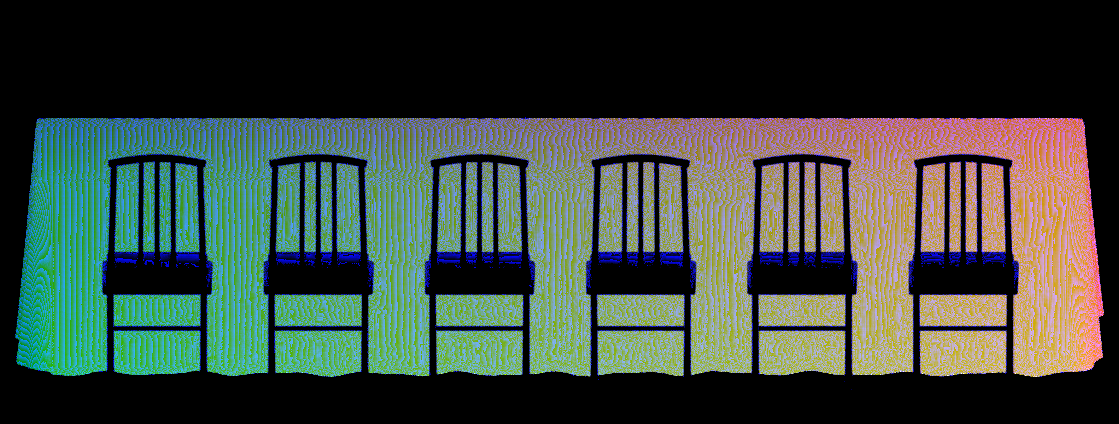
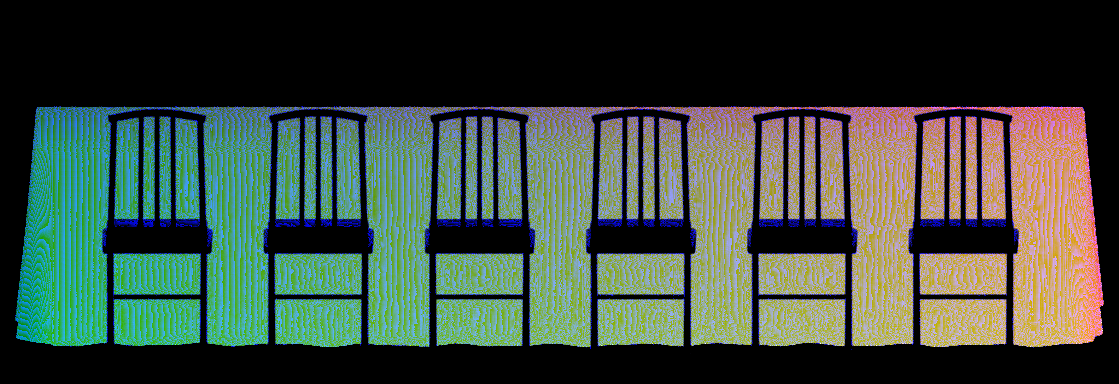
game/lab: bàn tròn ghế quay vào bàn; bàn ghế 3D vẽ chếch 10° khớp tranh; lối dọc lan can, vùng cấm gốc cây và lối vào cổng làng
- ban_tron_3d.py xoay ghế ngược nửa vòng (φ + π/2): sửa thành φ − π/2, có kiểm tra
- GOC_3D đặt độ chếch máy ảnh; bàn tròn, bàn dài, ghế 16 hướng dựng lại ở 10°
- trang thử đọc goc_nhin để đặt hoa, nến; bóng dưới bàn dẹt theo phối cảnh
- xếp bàn: lối 2,5 m dọc lan can, bãi cỏ giữa hai hàng bách sau cặp đôi để trống,
  vùng cấm gốc bách (Vườn Hồ) và lối vào cổng làng (Sân nhà quê)
- bàn cô dâu chú rể dựng 3D (ban_doi_3d.py), chưa đặt vào cảnh

Claude-Session: https://claude.ai/code/session_01EEpd3L3jMZsffKXsvJxw2h

diff --git a/game/lab/xuong/index.html b/game/lab/xuong/index.html
@@ -897,7 +897,7 @@ input[type=range]::-moz-range-thumb { width: 22px; height: 22px; border-radius: 
      Tấm vẽ tay: hai nền trống, cổng tròn, bàn dài gỗ. Đồ tự vẽ, không tốn lượt: khung cổng bằng mã (cụm hoa Canva gắn sẵn theo từng khung), nền đêm bằng mã,
      bàn tròn, bàn dài và cận cảnh một chỗ ngồi dựng 3D. Mã đặt món vào điểm neo theo thước phối cảnh của nhân vật, lật gương bàn bên trái, nhuộm qua mặt nạ,
      trải khăn nhiều lớp theo toạ độ khăn của 3D. Số đo do docs/game/ve/trang_tri.py và xuat_lab.py in ra. */
-  var SO3 = /*SO3*/{"khung-luc-giac":{"w":725,"h":645,"pxm":188.86,"ax":0.4945,"ay":0.975,"hoa_goc":[249.0,235.0,230.0]},"khung-tron":{"w":725,"h":669,"pxm":188.86,"ax":0.4945,"ay":0.9759,"hoa_goc":[249.0,235.0,230.0]},"khung-tam-giac":{"w":774,"h":620,"pxm":188.86,"ax":0.4386,"ay":0.974,"hoa_goc":[249.0,235.0,230.0]},"khung-vom":{"w":727,"h":586,"pxm":188.86,"ax":0.4285,"ay":0.9725,"hoa_goc":[249.0,235.0,230.0]},"khung-vom-nhon":{"w":708,"h":670,"pxm":188.86,"ax":0.4266,"ay":0.976,"hoa_goc":[249.0,235.0,230.0]},"khung-chu-nhat":{"w":811,"h":620,"pxm":188.86,"ax":0.4753,"ay":0.974,"hoa_goc":[249.0,235.0,230.0]},"ban-tron-6":{"w":598,"h":407,"pxm":260,"ax":0.5,"ay":0.7776,"R":0.6,"khach":6,"khan_uv_Rm":2.2667,"goc":[[255.0,255.0,255.0],[255.0,255.0,255.0],[240.0,229.0,203.0]],"mau":[239,222,[98,199,7]]},"ban-tron-10":{"w":775,"h":447,"pxm":260,"ax":0.5,"ay":0.7525,"R":0.9,"khach":10,"khan_uv_Rm":1.8444,"goc":[[255.0,255.0,252.0],[255.0,255.0,255.0],[237.0,226.0,199.0]],"mau":[336,227,[111,200,242]]},"ban-tron-12":{"w":829,"h":461,"pxm":260,"ax":0.5,"ay":0.7452,"R":1.0,"khach":12,"khan_uv_Rm":1.76,"goc":[[255.0,252.0,240.0],[255.0,255.0,255.0],[239.5,228.0,202.0]],"mau":[181,233,[48,166,167]]},"ban-dai-8":{"w":795,"h":424,"pxm":260,"ax":0.4988,"ay":0.8023,"dai":2.78,"rong":0.9,"khach":8,"xoay_do":0,"khan_uv_cao":2.25,"goc":[[255.0,255.0,255.0],[255.0,255.0,255.0],[248.0,238.0,211.0]],"mau":[607,238,[174,167,3]]},"ban-dai-12":{"w":1119,"h":424,"pxm":260,"ax":0.5006,"ay":0.8023,"dai":4.02,"rong":0.9,"khach":12,"xoay_do":0,"khan_uv_cao":2.87,"goc":[[255.0,255.0,255.0],[255.0,255.0,255.0],[248.0,238.0,211.0]],"mau":[609,237,[136,158,80]]},"ban-dai-20":{"w":1764,"h":424,"pxm":260,"ax":0.5001,"ay":0.8023,"dai":6.5,"rong":0.9,"khach":20,"xoay_do":0,"khan_uv_cao":4.11,"goc":[[255.0,255.0,255.0],[255.0,255.0,255.0],[248.0,238.0,211.0]],"mau":[798,236,[111,139,179]]},"ban-dai-12-cheo":{"w":1122,"h":518,"pxm":260,"ax":0.5005,"ay":0.7473,"dai":4.02,"rong":0.9,"khach":12,"xoay_do":-28,"khan_uv_cao":2.87,"goc":[[255.0,255.0,255.0],[255.0,255.0,255.0],[250.0,239.0,212.0]],"mau":[521,281,[130,156,170]]},"can-canh-au":{"Rm":1.8444,"R":0.9,"w":1280,"h":860,"goc":[[252.0,250.0,240.0],[170.0,154.0,110.0],[177.0,166.0,128.0]],"mau":[1137,516,[148,182,211]]},"can-canh-viet":{"Rm":1.8444,"R":0.9,"w":1280,"h":860,"goc":[[251.0,250.0,240.0],[170.0,154.0,108.0],[196.0,183.0,142.0]],"mau":[1220,411,[153,175,235]]},"vai":{"ren":{"met":0.5,"n":512},"kimsa":{"met":0.504,"n":512},"gam":{"met":0.44,"n":512}},"loa-keo":{"w":146,"h":310,"pxm":260,"ax":0.5,"ay":0.9627},"loa-chan":{"w":284,"h":577,"pxm":260,"ax":0.5,"ay":0.9406},"loa-sub":{"w":177,"h":566,"pxm":260,"ax":0.5,"ay":0.9368},"ghe":{"w":2662,"h":311,"pxm":260,"o":[[0,126,303,0.5043,0.9314],[128,162,310,0.5073,0.9201],[292,182,311,0.5274,0.916],[476,176,307,0.5454,0.9192],[654,147,296,0.567,0.9297],[803,177,295,0.5442,0.9097],[982,182,290,0.5252,0.8981],[1166,163,282,0.5042,0.8965],[1331,126,272,0.4957,0.9061],[1459,162,282,0.4927,0.8965],[1623,182,290,0.4726,0.8981],[1807,176,295,0.4546,0.9097],[1985,147,296,0.433,0.9297],[2134,177,307,0.4558,0.9192],[2313,182,311,0.4748,0.916],[2497,163,310,0.4958,0.9201]],"goc":[null,[255.0,255.0,255.0],[241.0,231.0,204.0]]},"ban-xuyen-giua":{"w":601,"h":250,"khach":18,"dai":5.88,"rong":0.9,"khan_uv_cao":3.8,"ban":[[0.0,10.02,16.02]],"d0":17.62,"ox":619,"oy":639,"goc":[[255.0,255.0,255.0],[255.0,255.0,248.0],[187.0,172.0,149.0]],"mau":[127,152,[59,116,35]]},"ban-xuyen-doc":{"w":1510,"h":337,"khach":40,"dai":12.7,"rong":0.9,"khan_uv_cao":7.21,"ban":[[-3.6,11.120000000000001,24.12],[3.6,11.120000000000001,24.12]],"d0":17.62,"ox":90,"oy":552,"goc":[[255.0,255.0,255.0],[255.0,255.0,249.0],[175.0,160.0,138.0]],"mau":[119,208,[26,120,77]]},"luong":{"w":1812,"h":229,"o":[[0,300,216,0.5,0.86],[302,300,214,0.5,0.86],[604,300,214,0.5,0.86],[906,300,229,0.5,0.86],[1208,300,221,0.5,0.86],[1510,300,222,0.5,0.86]],"rong":0.65,"goc":[252.0,249.0,244.0]},"hoaban":{"w":2304,"h":459,"o":[[0,487,311,0.5,0.961,0.6],[489,384,459,0.5,0.978,0.55],[875,334,361,0.5,0.97,0.4],[1211,491,294,0.5,0.966,0.6],[1704,379,355,0.5,0.966,0.48],[2085,217,459,0.5,0.989,0.34]],"goc":[251.0,244.0,232.0]}}/*HET*/;
+  var SO3 = /*SO3*/{"khung-luc-giac":{"w":725,"h":645,"pxm":188.86,"ax":0.4945,"ay":0.975,"hoa_goc":[249.0,235.0,230.0]},"khung-tron":{"w":725,"h":669,"pxm":188.86,"ax":0.4945,"ay":0.9759,"hoa_goc":[249.0,235.0,230.0]},"khung-tam-giac":{"w":774,"h":620,"pxm":188.86,"ax":0.4386,"ay":0.974,"hoa_goc":[249.0,235.0,230.0]},"khung-vom":{"w":727,"h":586,"pxm":188.86,"ax":0.4285,"ay":0.9725,"hoa_goc":[249.0,235.0,230.0]},"khung-vom-nhon":{"w":708,"h":670,"pxm":188.86,"ax":0.4266,"ay":0.976,"hoa_goc":[249.0,235.0,230.0]},"khung-chu-nhat":{"w":811,"h":620,"pxm":188.86,"ax":0.4753,"ay":0.974,"hoa_goc":[249.0,235.0,230.0]},"ban-tron-6":{"w":625,"h":399,"pxm":260,"ax":0.5,"ay":0.8269,"goc_nhin":10.0,"R":0.6,"khach":6,"khan_uv_Rm":2.2667,"goc":[[255.0,255.0,255.0],[255.0,255.0,255.0],[239.0,228.0,202.0]],"mau":[299,229,[134,219,83]]},"ban-tron-10":{"w":808,"h":426,"pxm":260,"ax":0.5,"ay":0.8061,"goc_nhin":10.0,"R":0.9,"khach":10,"khan_uv_Rm":1.8444,"goc":[[255.0,255.0,255.0],[255.0,255.0,255.0],[235.0,224.0,198.0]],"mau":[207,234,[53,176,248]]},"ban-tron-12":{"w":868,"h":435,"pxm":260,"ax":0.5,"ay":0.7997,"goc_nhin":10.0,"R":1.0,"khach":12,"khan_uv_Rm":1.76,"goc":[[255.0,255.0,255.0],[255.0,255.0,255.0],[238.0,227.0,200.0]],"mau":[200,237,[45,169,222]]},"ban-dai-8":{"w":795,"h":384,"pxm":260,"ax":0.4988,"ay":0.84,"goc_nhin":10.0,"dai":2.78,"rong":0.9,"khach":8,"xoay_do":0,"khan_uv_cao":2.25,"goc":[[255.0,255.0,255.0],[255.0,255.0,255.0],[248.0,238.0,211.0]],"mau":[95,231,[61,171,211]]},"ban-dai-12":{"w":1119,"h":384,"pxm":260,"ax":0.5006,"ay":0.84,"goc_nhin":10.0,"dai":4.02,"rong":0.9,"khach":12,"xoay_do":0,"khan_uv_cao":2.87,"goc":[[255.0,255.0,255.0],[255.0,255.0,255.0],[248.0,238.0,211.0]],"mau":[68,230,[43,162,162]]},"ban-dai-20":{"w":1764,"h":384,"pxm":260,"ax":0.5001,"ay":0.84,"goc_nhin":10.0,"dai":6.5,"rong":0.9,"khach":20,"xoay_do":0,"khan_uv_cao":4.11,"goc":[[255.0,255.0,255.0],[255.0,255.0,255.0],[248.0,237.0,211.0]],"mau":[385,229,[68,151,94]]},"ban-dai-12-cheo":{"w":1122,"h":447,"pxm":260,"ax":0.5005,"ay":0.7918,"goc_nhin":10.0,"dai":4.02,"rong":0.9,"khach":12,"xoay_do":-28,"khan_uv_cao":2.87,"goc":[[255.0,255.0,255.0],[255.0,255.0,255.0],[251.0,240.0,213.0]],"mau":[1035,253,[225,124,187]]},"can-canh-au":{"Rm":1.8444,"R":0.9,"w":1280,"h":860,"goc":[[252.0,250.0,240.0],[170.0,154.0,110.0],[177.0,166.0,128.0]],"mau":[1137,516,[148,182,211]]},"can-canh-viet":{"Rm":1.8444,"R":0.9,"w":1280,"h":860,"goc":[[251.0,250.0,240.0],[170.0,154.0,108.0],[196.0,183.0,142.0]],"mau":[1220,411,[153,175,235]]},"vai":{"ren":{"met":0.5,"n":512},"kimsa":{"met":0.504,"n":512},"gam":{"met":0.44,"n":512}},"loa-keo":{"w":146,"h":310,"pxm":260,"ax":0.5,"ay":0.9627,"goc_nhin":15},"loa-chan":{"w":284,"h":577,"pxm":260,"ax":0.5,"ay":0.9406,"goc_nhin":15},"loa-sub":{"w":177,"h":566,"pxm":260,"ax":0.5,"ay":0.9368,"goc_nhin":15},"ghe":{"w":2662,"h":303,"pxm":260,"o":[[0,126,297,0.5043,0.9444],[128,162,302,0.5073,0.9365],[292,182,303,0.5274,0.9336],[476,176,300,0.5454,0.936],[654,147,293,0.567,0.9434],[803,177,292,0.5442,0.9299],[982,182,288,0.5252,0.9223],[1166,163,283,0.5042,0.9217],[1331,126,277,0.4957,0.9286],[1459,162,283,0.4927,0.9217],[1623,182,288,0.4726,0.9223],[1807,176,292,0.4546,0.9299],[1985,147,293,0.433,0.9434],[2134,177,300,0.4558,0.936],[2313,182,303,0.4748,0.9336],[2497,163,302,0.4958,0.9365]],"goc":[null,[255.0,255.0,255.0],[242.0,232.0,205.0]]},"ban-xuyen-giua":{"w":601,"h":250,"khach":18,"dai":5.88,"rong":0.9,"khan_uv_cao":3.8,"ban":[[0.0,10.02,16.02]],"d0":17.62,"ox":619,"oy":639,"goc":[[255.0,255.0,255.0],[255.0,255.0,248.0],[187.0,172.0,149.0]],"mau":[127,152,[59,116,35]]},"ban-xuyen-doc":{"w":1510,"h":337,"khach":40,"dai":12.7,"rong":0.9,"khan_uv_cao":7.21,"ban":[[-3.6,11.120000000000001,24.12],[3.6,11.120000000000001,24.12]],"d0":17.62,"ox":90,"oy":552,"goc":[[255.0,255.0,255.0],[255.0,255.0,249.0],[175.0,160.0,138.0]],"mau":[119,208,[26,120,77]]},"luong":{"w":1812,"h":229,"o":[[0,300,216,0.5,0.86],[302,300,214,0.5,0.86],[604,300,214,0.5,0.86],[906,300,229,0.5,0.86],[1208,300,221,0.5,0.86],[1510,300,222,0.5,0.86]],"rong":0.65,"goc":[252.0,249.0,244.0]},"hoaban":{"w":2304,"h":459,"o":[[0,487,311,0.5,0.961,0.6],[489,384,459,0.5,0.978,0.55],[875,334,361,0.5,0.97,0.4],[1211,491,294,0.5,0.966,0.6],[1704,379,355,0.5,0.966,0.48],[2085,217,459,0.5,0.989,0.34]],"goc":[251.0,244.0,232.0]},"ban-doi":{"w":489,"h":265,"pxm":260,"ax":0.5024,"ay":0.8672,"goc_nhin":10.0,"dai":1.6,"rong":0.7,"khach":2,"xoay_do":0,"khan_uv_cao":1.66,"goc":[[255.0,255.0,255.0],null,null],"mau":[170,136,[105,180,204]]}}/*HET*/;
   var TT = {
     'cong-tron': { ten: 'Cổng tròn vẽ tay', loai: 've', f: 'anh/tt/cong-tron.webp', mn: 'anh/tt/cong-tron-mn.webp', the: 'anh/tt/t-cong-tron.webp', w: 760, h: 676, pxm: 180.17, ax: 0.5571, ay: 0.9088, goc: [250, 246, 232] },
     'ban-dai': { ten: 'Dài gỗ vẽ tay', loai: 've', f: 'anh/tt/ban-dai.webp', mn: 'anh/tt/ban-dai-mn.webp', the: 'anh/tt/t-ban-dai.webp', w: 898, h: 447, pxm: 292.89, ax: 0.5, ay: 0.8991, goc: [246, 234, 204] }
@@ -907,7 +907,9 @@ input[type=range]::-moz-range-thumb { width: 22px; height: 22px; border-radius: 
   var BAN_TEN = [['ban-tron-6', 'Tròn 6 khách'], ['ban-tron-10', 'Tròn 10 khách'], ['ban-tron-12', 'Tròn 12 khách'], ['ban-dai-8', 'Dài 8 khách'], ['ban-dai-12', 'Dài 12 khách', 3], ['ban-dai-20', 'Dài 20 khách', 17], ['ban-dai-12-cheo', 'Dài xếp chéo', 3]];
   function chep(a, b) { for (var k in b) a[k] = b[k]; return a; }
   KHUNG_TEN.forEach(function (k) { TT['khung-' + k[0]] = chep({ ten: k[1], loai: 'khung', s: k[0], the: 'anh/tt/t-khung-' + k[0] + '.webp' }, SO3['khung-' + k[0]]); });
-  BAN_TEN.forEach(function (b) { var u = 'anh/tt/' + b[0]; TT[b[0]] = chep({ ten: b[1], loai: '3d', hinh: b[0].indexOf('tron') > 0 ? 'tron' : 'dai', dx: b[2] || 0, f: u + '.webp', mn: u + '-mn.webp', uv: u + '-uv.webp', the: 'anh/tt/t-' + b[0] + '.webp' }, SO3[b[0]]); });
+  var PB = '?v=33';   // bàn ghế dựng lại 26/11 (ghế quay vào bàn, máy ảnh chếch 10°): đổi số để trình duyệt không dùng ảnh cũ
+  BAN_TEN.forEach(function (b) { var u = 'anh/tt/' + b[0]; TT[b[0]] = chep({ ten: b[1], loai: '3d', hinh: b[0].indexOf('tron') > 0 ? 'tron' : 'dai', dx: b[2] || 0, f: u + '.webp' + PB, mn: u + '-mn.webp' + PB, uv: u + '-uv.webp' + PB, the: 'anh/tt/t-' + b[0] + '.webp' + PB }, SO3[b[0]]); });
+  if (SO3['ban-doi']) TT['ban-doi'] = chep({ ten: 'Bàn cô dâu chú rể', loai: '3d', hinh: 'dai', f: 'anh/tt/ban-doi.webp' + PB, mn: 'anh/tt/ban-doi-mn.webp' + PB, uv: 'anh/tt/ban-doi-uv.webp' + PB }, SO3['ban-doi']);   // ban_doi_3d.py: đặt trước cặp đôi ở phần Tiệc, không có trong danh sách chọn
   // Bàn dài xuyên suốt (ban_xuyen_3d.py): mỗi lớp là một tấm vẽ bằng máy ảnh phối cảnh khớp tranh, đặt đúng chỗ trong khung (ox, oy) rồi dời ngang theo lối đi.
   ['giua', 'doc'].forEach(function (k) { var u = 'anh/tt/ban-xuyen-' + k; TT['lop-' + k] = chep({ loai: 'lop', hinh: 'dai', f: u + '.webp', mn: u + '-mn.webp', uv: u + '-uv.webp' }, SO3['ban-xuyen-' + k]); });
   var XUYEN = [['ban-xuyen-giua', 'Bàn dài giữa lối', ['lop-giua']], ['ban-xuyen-doc', 'Hai dãy dọc lối', ['lop-doc']], ['ban-xuyen-ba', 'Ba dãy dọc lối', ['lop-doc', 'lop-giua']]];
@@ -915,10 +917,12 @@ input[type=range]::-moz-range-thumb { width: 22px; height: 22px; border-radius: 
   var CC = {}; ['au', 'viet'].forEach(function (k) { var u = 'anh/tt/can-canh-' + k, m = SO3['can-canh-' + k]; CC[k] = chep({ f: u + '.webp', mn: u + '-mn.webp', uv: u + '-uv.webp', khan_uv_Rm: m.Rm }, m); });
   // Mỗi nơi: tấm nền trống (ngày, đêm) và chỗ đứng trên đó (% khung) của cặp đôi, cổng (sau lưng cặp đôi), hai bàn (bên trái là bản lật gương).
   // sang: hệ số chỉnh sáng món rời theo ánh sáng của nơi đó so với Vườn Hồ; sangDem: ban đêm (dem_ma.py đo trên lối đi, nhân thêm sang của nơi đó).
-  // mb: vùng đặt bàn nhìn từ trên (mét, ước lượng): ngang, sâu, lối giữa, chỗ cặp đôi đứng tính từ mép xa (Vườn Hồ: lan can cách cặp đôi khoảng 8 m).
+  // mb: vùng đặt bàn nhìn từ trên (mét, ước lượng): ngang, sâu, lối giữa, chỗ cặp đôi đứng tính từ mép xa (Vườn Hồ: lan can cách cặp đôi khoảng 8 m),
+  //     le: lối đi chừa dọc mép xa (lan can, tường); phong: nửa bề ngang phông sau cặp đôi để trống (mặc định 4,5 m); truoc: khoảng trống trước mặt cặp đôi cho bàn sát lối (mặc định 1,6 m); cam: vùng cấm đo trên tranh 26/11 bằng lưới 1 m (x lệch khỏi giữa lối, y tính từ mép xa):
+  //     ['cay', x, y, r] gốc cây (Vườn Hồ: hai hàng bách ở x ≈ ±7,5), ['loi', x0, y0, x1, y1] lối đi (Sân nhà quê: lối vào cổng làng ở góc sau bên phải).
   var LOP = {
-    ho: { ten: 'Vườn Hồ', nen: 'nen-ho', mb: { rong: 30, sau: 22, loi: 3, cy: 8.4 }, dien: 15, sangDem: [0.304, 0.364, 0.552], anh: [1, 0.965, 0.9], mu: [200, 218, 214], loaXY: [[-7.8, 1.3], [7.8, 1.3]], X: 50.3, Y: 80.6, cong: [50.3, 78.6], ban: [['tt-ban-p', 79, 96, false], ['tt-ban-t', 21.5, 96, true]] },
-    langque: { ten: 'Sân nhà quê', nen: 'nen-langque', mb: { rong: 24, sau: 18, loi: 2, cy: 7.5 }, dien: 4, sang: [0.98, 0.905, 0.83], sangDem: [0.297, 0.322, 0.443], anh: [1, 0.95, 0.86], mu: [232, 214, 178], loaXY: [[-6.5, 1.5], [4.6, 1.5]], X: 52.8, Y: 80, cong: [52.8, 78], ban: [['tt-ban-p', 81.3, 96, false], ['tt-ban-t', 24.3, 96, true]] }
+    ho: { ten: 'Vườn Hồ', nen: 'nen-ho', mb: { rong: 30, sau: 22, loi: 3, cy: 8.4, le: 2.5, phong: 8.6, cam: [['cay', -7.3, 0.4, 1], ['cay', -7.3, 3.5, 1], ['cay', -7.5, 8, 1.1], ['cay', 7.9, 0, 1], ['cay', 7.8, 3.5, 1]] }, dien: 15, sangDem: [0.304, 0.364, 0.552], anh: [1, 0.965, 0.9], mu: [200, 218, 214], loaXY: [[-7.8, 1.3], [7.8, 1.3]], X: 50.3, Y: 80.6, cong: [50.3, 78.6], ban: [['tt-ban-p', 79, 96, false], ['tt-ban-t', 21.5, 96, true]] },
+    langque: { ten: 'Sân nhà quê', nen: 'nen-langque', mb: { rong: 24, sau: 18, loi: 2, cy: 7.5, le: 1.5, truoc: 3, cam: [['loi', 5.6, 0, 10.4, 5.5]] }, dien: 4, sang: [0.98, 0.905, 0.83], sangDem: [0.297, 0.322, 0.443], anh: [1, 0.95, 0.86], mu: [232, 214, 178], loaXY: [[-6.5, 1.5], [4.6, 1.5]], X: 52.8, Y: 80, cong: [52.8, 78], ban: [['tt-ban-p', 81.3, 96, false], ['tt-ban-t', 24.3, 96, true]] }
   };
   // Ô màu: [khoá, tên, màu nhuộm (null = giữ màu gốc của tấm vẽ), màu ô]
   var TONG_HOA = [['trang', 'Trắng', null, [250, 246, 232]], ['hong', 'Hồng phấn', [255, 198, 208]], ['dao', 'Đào', [255, 204, 168]], ['tim', 'Tím nhạt', [216, 196, 242]], ['vang', 'Vàng bơ', [255, 228, 150]], ['do', 'Đỏ rượu', [184, 40, 62]]];
@@ -1052,6 +1056,12 @@ input[type=range]::-moz-range-thumb { width: 22px; height: 22px; border-radius: 
     }
   }
   // ----- mặt bằng nhìn từ trên: bàn của bộ đang chọn, xếp hai bên lối giữa cho đủ số khách -----
+  function dungCam(A, x0, y0, x1, y1) { // khung chữ nhật (x lệch khỏi giữa lối, y từ mép xa) có chạm vùng cấm của nơi tổ chức không
+    return (A.cam || []).some(function (c) {
+      if (c[0] === 'cay') { var dx = Math.max(x0 - c[1], 0, c[1] - x1), dy = Math.max(y0 - c[2], 0, c[2] - y1); return dx * dx + dy * dy < c[3] * c[3]; }
+      return x0 < c[3] && x1 > c[1] && y0 < c[4] && y1 > c[2];
+    });
+  }
   function boBan(L) { // { ds: [[x, y, góc độ]], g: hình học bàn, cho, can, du, A } (mét; x ngang, y tính từ cổng ra)
     var A = LOP[L.noi].mb, m = L.ban && TT[L.ban], o = { ds: [], g: null, cho: 0, can: 0, du: false, A: A };
     if (!m) return o;
@@ -1067,13 +1077,17 @@ input[type=range]::-moz-range-thumb { width: 22px; height: 22px; border-radius: 
     else if (g.cheo) { w = (g.dai + 0.2) * Math.cos(a) + (g.rong + 1.1) * Math.sin(a); h = g.rong + 1.1 + 0.25; kh = 0.5; }
     else { w = g.dai + 0.3; h = g.rong + 1.1; }
     // cả bãi cỏ hai bên lối, trước và sau cặp đôi; chừa khoảng làm lễ quanh cổng (rộng 3,5 m mỗi bên, từ 2,5 m sau cổng tới 1,6 m trước cặp đôi)
-    var cot = Math.max(0, Math.floor((nua + kh) / (w + kh))), hang = Math.max(0, Math.floor((A.sau - 1.7 + kh) / (h + kh))), cho = [];
-    for (var r = 0; r < hang; r++) for (var c = 0; c < cot; c++) for (var s = 0; s < 2; s++) {
-      var x = A.rong / 2 + (s ? 1 : -1) * (A.loi / 2 + 0.25 + w / 2 + c * (w + kh)), y = 1.2 + h / 2 + r * (h + kh), le = Math.abs(x - A.rong / 2) - w / 2;   // chừa 1,2 m đi lại dọc lan can
-      if (le < 3.5 && y + h / 2 > A.cy - 2.5 && y - h / 2 < A.cy + 1.6) continue;   // khoảng làm lễ quanh cổng
-      if (le < 4.5 && y + h / 2 < A.cy - 0.5) continue;                               // phông sau cổng (cổng, hồ) để trống, chỉ đặt bàn ở hai bên xa
+    // hai lưới hàng: phía sau (từ lối dọc lan can tới ngang chỗ cặp đôi + 1,6 m) và phía trước (từ đó ra tới mép gần), để hàng đầu phía trước sát ngay khoảng làm lễ
+    var cot = Math.max(0, Math.floor((nua + kh) / (w + kh))), le0 = A.le || 1.2, mat = A.cy + 1.6, cho = [], ys = [], y;
+    for (y = le0 + h / 2; y + h / 2 <= mat; y += h + kh) ys.push(y);
+    for (y = mat + h / 2; y + h / 2 <= A.sau - 0.5; y += h + kh) ys.push(y);
+    ys.forEach(function (y) { for (var c = 0; c < cot; c++) for (var s = 0; s < 2; s++) {
+      var x = A.rong / 2 + (s ? 1 : -1) * (A.loi / 2 + 0.25 + w / 2 + c * (w + kh)), le = Math.abs(x - A.rong / 2) - w / 2;
+      if (y - h / 2 < mat && le < (A.phong || 4.5)) continue;   // khoảng làm lễ và phông sau cặp đôi (cổng, hồ; Vườn Hồ: cả bãi cỏ giữa hai hàng bách) để trống
+      if (y - h / 2 < A.cy + (A.truoc || 1.6) && le < 3.5) continue;   // trước mặt cặp đôi (bàn cô dâu chú rể, chỗ chụp ảnh): lối hẹp thì chừa thêm, bàn sát lối lùi ra hàng sau
+      if (dungCam(A, x - A.rong / 2 - w / 2, y - h / 2, x - A.rong / 2 + w / 2, y + h / 2)) continue;   // gốc cây, lối vào cổng
       cho.push([x, y, g.cheo ? (s ? -28 : 28) : 0, Math.hypot(x - A.rong / 2, (y - A.cy) * 1.3)]);
-    }
+    } });
     cho.sort(function (p, q) { return p[3] - q[3]; });                                  // gần cặp đôi trước
     o.can = Math.ceil(soKhach(L) / g.khach); o.suc = cho.length * g.khach;
     o.ds = cho.slice(0, o.can).map(function (t) { return t.slice(0, 3); });
@@ -1357,8 +1371,8 @@ input[type=range]::-moz-range-thumb { width: 22px; height: 22px; border-radius: 
     // nến trên bàn
     if (L.den[3] && L.ban && !TT[L.ban].pc) {
       viTriBan(L, w, h).forEach(function (v) {
-        var m = v.m, lat = v.lat, s = v.s, bx = v.cx, by = m.loai === '3d' ? v.py + m.ay * v.cao - 0.734 * s : v.py + 0.52 * v.cao, dai = m.loai !== '3d' ? 2.4 : m.hinh === 'dai' ? m.dai : 0;
-        var doc = (m.xoay_do || m.loai !== '3d' ? 1 : 0) * (lat ? -1 : 1) * 0.137, ds = dai ? [-0.32, -0.11, 0.11, 0.32].map(function (f) { return [bx + f * dai * s, by + f * dai * s * doc]; }) : [[bx - 0.13 * s, by], [bx, by - 0.07 * s], [bx + 0.13 * s, by]];
+        var m = v.m, lat = v.lat, s = v.s, bx = v.cx, by = m.loai === '3d' ? v.py + m.ay * v.cao - gocBan(m)[0] * s : v.py + 0.52 * v.cao, dai = m.loai !== '3d' ? 2.4 : m.hinh === 'dai' ? m.dai : 0;
+        var doc = (m.xoay_do || m.loai !== '3d' ? 1 : 0) * (lat ? -1 : 1) * (m.loai === '3d' ? gocBan(m)[1] * Math.tan(Math.abs(m.xoay_do || 0) * Math.PI / 180) : 0.137), ds = dai ? [-0.32, -0.11, 0.11, 0.32].map(function (f) { return [bx + f * dai * s, by + f * dai * s * doc]; }) : [[bx - 0.13 * s, by], [bx, by - 0.07 * s], [bx + 0.13 * s, by]];
         ds.forEach(function (p, j) { var fl = 0.85 + 0.15 * Math.sin(t * 7 + j * 2.3 + bx);
           if (dem) sang(xt, '255,170,80', p[0], p[1] - 0.1 * s, 0.38 * s, 0.85 * fl);
           xt.fillStyle = toiMau([245, 238, 220]); xt.fillRect(p[0] - 0.022 * s, p[1] - 0.12 * s, 0.044 * s, 0.12 * s);
@@ -1418,6 +1432,7 @@ input[type=range]::-moz-range-thumb { width: 22px; height: 22px; border-radius: 
   function viLuong(L) { return ({ trang: 0.6, do: 0.6, guong: 0.75 }[L.loi] || 1.0) + 0.3; }   // tâm luống cách giữa lối (m)
   function xepLe(L) { // ghế quanh chỗ cặp đôi đứng: [x ngang, z hướng về máy ảnh (m), góc mặt ghế ρ = atan2(hướng x, hướng z)]
     var ds = [], a = coLuong(L) ? viLuong(L) + 0.33 + 0.15 : 1.35, pz = 0.95, pc = 0.56, k = L.xepLe, r, j, s, n, t;   // có luống hoa: ghế lùi ra ngoài mép luống
+    var A = LOP[L.noi].mb, them = function (g) { var y = A.cy + g[1]; if (y > (A.le || 1.2) && !dungCam(A, g[0] - 0.25, y - 0.25, g[0] + 0.25, y + 0.25)) ds.push(g); };   // bỏ chỗ trùng gốc cây, lối vào cổng, lối dọc lan can
     if (k === 'quat' || k === 'tron') {
       var cz = k === 'quat' ? -1.0 : 0, r0 = k === 'quat' ? 4.0 : 2.4, gh = k === 'quat' ? 62 : 180;
       for (r = 0; ds.length < soKhach(L) && r < 30; r++) {
@@ -1426,13 +1441,13 @@ input[type=range]::-moz-range-thumb { width: 22px; height: 22px; border-radius: 
           var x = R * Math.sin(t), z = cz + R * Math.cos(t);
           if (Math.abs(x) < a + 0.15 && z > cz) continue;                                        // lối giữa phía trước
           if (k === 'tron' && (Math.abs(x) < 0.65 || Math.abs(z) < 0.65)) continue;                // vòng tròn: bốn lối xuyên tâm
-          ds.push([x, z, t + Math.PI]);
+          them([x, z, t + Math.PI]);
         }
       }
     } else {
       var nghieng = k === 'cheo' ? 20 * Math.PI / 180 : 0;
       for (r = 0; ds.length < soKhach(L) && r < 60; r++) for (s = -1; s <= 1; s += 2) for (j = 0; j < 5 && ds.length < soKhach(L); j++)
-        ds.push([s * (a + 0.3 + j * pc * Math.cos(nghieng)), 3.0 + r * pz - j * pc * Math.sin(nghieng), Math.atan2(-s * Math.sin(nghieng), -Math.cos(nghieng))]);
+        them([s * (a + 0.3 + j * pc * Math.cos(nghieng)), 3.0 + r * pz - j * pc * Math.sin(nghieng), Math.atan2(-s * Math.sin(nghieng), -Math.cos(nghieng))]);
     }
     return ds;
   }
@@ -1441,12 +1456,13 @@ input[type=range]::-moz-range-thumb { width: 22px; height: 22px; border-radius: 
     var o = { w: H.w, h: H.h, ve: ['anh/tt/hoaban.webp'], nhuom: [], sang: sang }, t = tongCua(TONG_HOA, L.hoa)[2];
     if (t) o.nhuom.push(['anh/tt/hoaban-mn.webp', 0, H.goc, t]); return o;
   }
+  function gocBan(m) { var g = (m.goc_nhin || 15) * Math.PI / 180; return [0.76 * Math.cos(g), Math.sin(g)]; }   // bàn 3D vẽ bằng máy ảnh trực giao chếch goc_nhin độ: [độ cao mặt bàn trên hình (m), hệ số dẹt của mặt đất]
   function diemHoaBan(v) { // chỗ đặt hoa trên mặt bàn (px màn hình): bàn tròn một món ở giữa; bàn dài cứ 1,5 m một món dọc đường giữa bàn
     var m = v.m, s = v.s, k = v.rg / m.w;
     if (m.loai !== '3d') return [[250, 78], [430, 105], [610, 132]].map(function (p) { return [v.lat ? v.px + v.rg - p[0] * k : v.px + p[0] * k, v.py + p[1] * k]; });   // bàn dài vẽ tay: đo trên tranh, dọc khăn chạy bàn
-    var bx = v.cx, by = v.py + m.ay * v.cao - 0.734 * s;   // mặt bàn cao 0,76 m, máy ảnh chếch 15°
+    var bx = v.cx, by = v.py + m.ay * v.cao - gocBan(m)[0] * s;   // mặt bàn cao 0,76 m
     if (m.hinh !== 'dai') return [[bx, by]];
-    var n = Math.max(1, Math.round(m.dai / 1.5)), a = (m.xoay_do || 0) * Math.PI / 180, dx = Math.cos(a) * (v.lat ? -1 : 1), dy = -Math.sin(a) * 0.2588, ra = [];
+    var n = Math.max(1, Math.round(m.dai / 1.5)), a = (m.xoay_do || 0) * Math.PI / 180, dx = Math.cos(a) * (v.lat ? -1 : 1), dy = -Math.sin(a) * gocBan(m)[1], ra = [];
     for (var i = 0; i < n; i++) { var f = (i - (n - 1) / 2) * 1.5; ra.push([bx + f * dx * s, by + f * dy * s]); }
     return ra;
   }
@@ -1466,6 +1482,7 @@ input[type=range]::-moz-range-thumb { width: 22px; height: 22px; border-radius: 
     });
     return ra.sort(function (p, q) { return q.d - p.d; });
   }
+  window.__dbg = function () { var L = lopHien(), b = boBan(L), w = world.clientWidth, h = world.clientHeight; return { ds: b.ds, vt: viTriBan(L, w, h).map(function (v) { return [Math.round(v.px), Math.round(v.py), Math.round(v.rg), v.z, v.d]; }), w: w, h: h }; };
   var netCache = { k: '', v: null };
   function hoaNet(tam, V, dem, khoa) { // trả 3 bản [gần, giữa, xa]
     if (netCache.k === khoa) return netCache.v;
@@ -1485,7 +1502,7 @@ input[type=range]::-moz-range-thumb { width: 22px; height: 22px; border-radius: 
   }
   function bongBan(x, v, dem) { // bóng mềm dưới bàn và ghế, hơi lệch phải theo nắng của tranh
     var m = v.m, s = v.s, R = (m.hinh === 'tron' ? m.R + 0.75 : (m.dai || 3) / 2 + 0.6) * s, cy = v.py + m.ay * v.cao, cx = v.cx + 0.25 * s;
-    x.save(); x.translate(cx, cy); x.scale(1, 0.3); var g = x.createRadialGradient(0, 0, R * 0.2, 0, 0, R);
+    x.save(); x.translate(cx, cy); x.scale(1, Math.min(0.3, 1 / NV.MOT_MET / v.d)); var g = x.createRadialGradient(0, 0, R * 0.2, 0, 0, R);
     g.addColorStop(0, dem ? 'rgba(5,10,20,0.4)' : 'rgba(40,52,24,0.4)'); g.addColorStop(0.55, dem ? 'rgba(5,10,20,0.22)' : 'rgba(40,52,24,0.22)'); g.addColorStop(1, 'rgba(40,52,24,0)'); x.fillStyle = g; x.beginPath(); x.arc(0, 0, R, 0, 7); x.fill(); x.restore();
   }
   function veGhe(L, sang) { // vẽ ghế dự lễ lên hai lớp: sau cặp đôi (z < 0) và trước cặp đôi; xa vẽ trước, gần vẽ sau
@@ -1509,8 +1526,8 @@ input[type=range]::-moz-range-thumb { width: 22px; height: 22px; border-radius: 
     }
     if (!L || L.phan !== 'le' || !w) return;
     var G = SO3.ghe, V = LOP[L.noi], d0 = PC_K / (V.Y - NV.CHAN_TROI), de = tongCua(MAU_DEM, L.demGhe)[2], kg = tongCua(MAU_KG, L.khungGhe)[2];
-    var o = { w: G.w, h: G.h, ve: ['anh/tt/ghe-xoay.webp'], nhuom: [], sang: sang };
-    if (de) o.nhuom.push(['anh/tt/ghe-xoay-mn.webp', 1, G.goc[1], de]); if (kg) o.nhuom.push(['anh/tt/ghe-xoay-mn.webp', 2, G.goc[2], kg]);
+    var o = { w: G.w, h: G.h, ve: ['anh/tt/ghe-xoay.webp' + PB], nhuom: [], sang: sang };
+    if (de) o.nhuom.push(['anh/tt/ghe-xoay-mn.webp' + PB, 1, G.goc[1], de]); if (kg) o.nhuom.push(['anh/tt/ghe-xoay-mn.webp' + PB, 2, G.goc[2], kg]);
     // luống hoa (T15, Canva): các khóm nối nhau dọc hai bên lối, khóm chọn theo vị trí (cố định), lật gương xen kẽ; nhuộm theo tông hoa
     var LG = coLuong(L) && SO3.luong, ol = LG && { w: LG.w, h: LG.h, ve: ['anh/tt/luong.webp'], nhuom: [], sang: sang }, th = tongCua(TONG_HOA, L.hoa)[2];
     if (ol && th) ol.nhuom.push(['anh/tt/luong-mn.webp', 0, LG.goc, th]);

diff --git a/docs/game/ve/xuat_lab.py b/docs/game/ve/xuat_lab.py
@@ -3,7 +3,7 @@
 #   - nền đêm (cỡ 1600, 900 và hình thẻ);
 #   - bộ bàn 3D: tranh, mặt nạ 3 lớp (đỏ = khăn, lục = đệm, lam = khung ghế; không nén mất dữ liệu), toạ độ khăn gói 12 bit vào RGB;
 #   - cận cảnh bàn Âu, Việt: tranh, mặt nạ (đỏ = khăn, lục = đĩa lót, lam = dao nĩa), toạ độ khăn.
-# Chạy: python3 xuat_lab.py <thư mục bản chơi> <thư mục nền đêm> <bàn tròn 3D> <bàn dài 3D> <cận cảnh 3D> <t14-xuat.png> [phần: nen,khung,ban,gan,vai,loa,ghe,xuyen,luong,hoaban]
+# Chạy: python3 xuat_lab.py <thư mục bản chơi> <thư mục nền đêm> <bàn tròn 3D> <bàn dài 3D> <cận cảnh 3D> <t14-xuat.png> [phần: nen,khung,ban,doi,gan,vai,loa,ghe,xuyen,luong,hoaban]
 #   - ô hoạ tiết vải (ren, kim sa, gấm) lặp liền mạch, để bản chơi trải lên khăn theo toạ độ khăn;
 # Ra: <bản chơi>/anh/..., <bản chơi>/anh/tt/..., số đo tt-lab.json (chép vào TT3 trong index.html), ảnh kiểm tra xuat-lab-*.jpg
 import sys, os, json, math
@@ -16,7 +16,7 @@ import khung_ma as K
 import trang_tri as T
 
 LAB, DEM, TRON, DAI, GAN, T14 = sys.argv[1:7]
-PHAN = set((sys.argv[7] if len(sys.argv) > 7 else 'nen,khung,ban,gan,vai,loa,ghe,xuyen,luong,hoaban').split(','))   # chạy riêng từng phần, ví dụ: khung,vai
+PHAN = set((sys.argv[7] if len(sys.argv) > 7 else 'nen,khung,ban,doi,gan,vai,loa,ghe,xuyen,luong,hoaban').split(','))   # chạy riêng từng phần, ví dụ: khung,vai
 ANH = os.path.join(LAB, 'anh'); TT = os.path.join(ANH, 'tt'); os.makedirs(TT, exist_ok=True)
 NEN_THE = (236, 240, 228)
 so = json.load(open('tt-lab.json')) if os.path.exists('tt-lab.json') else {}
@@ -169,6 +169,13 @@ ID_BAN = lambda idm: idm                                  # bàn: màu ID đã l
 for thu_muc, tep in (((TRON, 'ban-tron.json'), (DAI, 'ban-dai.json')) if 'ban' in PHAN else ()):
     for ten, m in json.load(open(os.path.join(thu_muc, tep))).items():
         so[ten] = xuat_bo(thu_muc, ten, m, ID_BAN, ten)
+        print(ten, so[ten]['w'], so[ten]['h'], so[ten]['kb'], 'KB', so[ten]['goc'])
+
+# bàn cô dâu chú rể (ban_doi_3d.py, 26/11): cùng cách xuất như bàn khách, không có hình thẻ; thư mục lấy từ biến DOI_3D
+if 'doi' in PHAN:
+    DD = os.environ['DOI_3D']
+    for ten, m in json.load(open(os.path.join(DD, 'ban-doi.json'))).items():
+        so[ten] = xuat_bo(DD, ten, m, ID_BAN, None)
         print(ten, so[ten]['w'], so[ten]['h'], so[ten]['kb'], 'KB', so[ten]['goc'])
 
 # cận cảnh: màu ID có màu pha (dao nĩa vàng, ly lục lam, khăn ăn tím) và ly trong suốt (độ đục 0,28) đè lên khăn, đĩa.

diff --git a/docs/game/ve/ban_tron_3d.py b/docs/game/ve/ban_tron_3d.py
@@ -1,6 +1,6 @@
 # Tự vẽ bằng 3D (0 lượt), ngày 25/11: bộ bàn tròn phủ khăn trắng chấm đất, ghế chiavari xếp quanh bàn — thay T7 + T8.
 # Mỗi bộ (6, 10, 12 khách) ra: tranh, mặt nạ (khăn đỏ, đệm lục, khung ghế lam), toạ độ khăn 16 bit (khan_lop dùng để xếp lớp), số đo kiểu TT.
-# Chạy: <venv có bpy>/bin/python ban_tron_3d.py <thư mục ra>
+# Chạy: GOC_3D=10 <venv có bpy>/bin/python ban_tron_3d.py <thư mục ra>   (GOC_3D: độ chếch máy ảnh, xem xuong_3d.py)
 import sys, os, math, json
 sys.path.insert(0, os.path.dirname(os.path.abspath(__file__)))
 import bpy
@@ -20,7 +20,9 @@ for khach, R in BO:
     d = R + 0.32                                      # tâm ghế cách tâm bàn
     for i in range(khach):
         phi = 2 * math.pi * i / khach + math.pi / khach * (khach % 4 == 2)   # lệch nửa nhịp để ghế không che chính giữa
-        X.nhan_ban(ghe, (d * math.cos(phi), d * math.sin(phi), 0), phi + math.pi / 2)   # mặt ghế (−y) quay vào bàn
+        q = phi - math.pi / 2                         # ghế mẫu có mặt hướng −y; quay q thì mặt hướng (sin q, −cos q) = −(cos φ, sin φ): vào tâm bàn
+        assert math.sin(q) * -math.cos(phi) + -math.cos(q) * -math.sin(phi) > 0.99, 'ghế phải quay mặt vào bàn'
+        X.nhan_ban(ghe, (d * math.cos(phi), d * math.sin(phi), 0), q)   # (bản 25/11 dùng φ + π/2: ghế quay lưng vào bàn, sửa 26/11)
     for o in ghe: bpy.data.objects.remove(o)          # bỏ ghế mẫu ở gốc
     m = X.may_anh(sc)
     ten = f'ban-tron-{khach}'

diff --git a/docs/game/ve/ban_doi_3d.py b/docs/game/ve/ban_doi_3d.py
@@ -1,0 +1,22 @@
+# Tự vẽ bằng 3D (0 lượt), ngày 26/11: bàn cô dâu chú rể cho phần Tiệc (bo-cuc-canh.md luật 7).
+# Bàn dài 1,6 × 0,7 m phủ khăn chấm đất (cùng kiểu khăn với ban_dai_3d.py), không ghế: cặp đôi đứng sau bàn nên ghế bị che hết.
+# Bản chơi đặt bàn ngay trước chỗ cặp đôi đứng, che từ thắt lưng xuống; khăn đổi màu theo khăn nền như bàn khách.
+# Chạy: GOC_3D=10 <venv có bpy>/bin/python ban_doi_3d.py <thư mục ra>  → ban-doi.png, -id.png, -uv.png, ban-doi.json
+# Đưa vào trang thử: DOI_3D=<thư mục ra> python3 xuat_lab.py … doi
+import sys, os, json
+sys.path.insert(0, os.path.dirname(os.path.abspath(__file__)))
+import bpy
+import xuong_3d as X
+from ban_dai_3d import khan_dai
+
+RA = sys.argv[-1] if len(sys.argv) > 1 and not sys.argv[-1].endswith('.py') else '.'
+os.makedirs(RA, exist_ok=True)
+DAI, RONG = 1.6, 0.7
+sc = X.moi(); X.ID.clear()
+vai = X.vat_lieu('khan', (0.94, 0.92, 0.87), 0.85, (1, 0, 0))
+khan, cao = khan_dai(DAI, RONG, vai, seed=3)
+m = X.may_anh(sc)
+X.ve(sc, os.path.join(RA, 'ban-doi'), uv_vat=khan)
+m.update(dai=DAI, rong=RONG, khach=2, xoay_do=0, khan_uv_cao=round(cao, 4))
+json.dump({'ban-doi': m}, open(os.path.join(RA, 'ban-doi.json'), 'w'), ensure_ascii=False, indent=1)
+print('ban-doi', m)

diff --git a/docs/game/ve/ghe_xoay_3d.py b/docs/game/ve/ghe_xoay_3d.py
@@ -1,7 +1,7 @@
 # Tự vẽ bằng 3D (0 lượt), ngày 26/11: ghế chiavari của bộ bàn (xuong_3d.ghe_chiavari) ở 16 hướng, để bản chơi xếp ghế dự lễ
-# theo hàng thẳng, hàng cong, khối chéo, vòng tròn. Cùng máy ảnh trực giao chếch 15°, 260 px mỗi mét như bàn ghế.
+# theo hàng thẳng, hàng cong, khối chéo, vòng tròn. Cùng máy ảnh trực giao như bàn ghế (chếch GOC_3D độ, 260 px mỗi mét).
 # Hướng k: ghế quay ngược chiều kim đồng hồ k × 22,5° (k = 0: mặt ghế hướng về máy ảnh).
-# Chạy: <venv có bpy>/bin/python ghe_xoay_3d.py <thư mục ra>  → ghe-<k>.png, ghe-<k>-id.png (đỏ: không, lục: đệm, lam: khung), ghe.json
+# Chạy: GOC_3D=10 <venv có bpy>/bin/python ghe_xoay_3d.py <thư mục ra>  → ghe-<k>.png, ghe-<k>-id.png (đỏ: không, lục: đệm, lam: khung), ghe.json
 import sys, os, math, json
 sys.path.insert(0, os.path.dirname(os.path.abspath(__file__)))
 import bpy

diff --git a/docs/game/ve/xuong_3d.py b/docs/game/ve/xuong_3d.py
@@ -6,7 +6,8 @@ import numpy as np
 from mathutils import Vector
 
 PXM = 260          # px mỗi mét khi vẽ: mọi món cùng một thước, nên nét mực ra cùng độ dày sau khi đặt vào cảnh
-GOC = 15           # độ chếch máy ảnh: bàn tròn trong tranh cũ có elip mặt bàn b/a ≈ 0,26 → khoảng 15°
+GOC = float(os.environ.get('GOC_3D', 15))   # độ chếch máy ảnh (độ). Mặc định 15° (cận cảnh, loa, ghế thử). Bàn ghế đặt vào cảnh vẽ ở GOC_3D=10:
+                   # tranh nhìn từ máy cao 3,26 m, bàn ở 12–24 m chỉ chếch 8–15°; bàn tròn vẽ tay đo được b/a ≈ 0,18 ≈ 10,4° (tham-khao-thiet-ke-tiec.md mục 4)
 NET = 2.0          # độ dày nét mực (px ở cỡ vẽ)
 ID = {}            # tên vật liệu → màu mặt nạ
 

diff --git a/docs/game/ve/ban_dai_3d.py b/docs/game/ve/ban_dai_3d.py
@@ -1,7 +1,7 @@
 # Tự vẽ bằng 3D (0 lượt), ngày 25/11: bàn dài phủ khăn trắng chấm đất, ghế chiavari hai bên — thay T9.
 # Với 3D không cần ghép mô-đun: vẽ thẳng từng độ dài (8, 12, 20 khách), chạy ngang hoặc chạy chéo.
 # Toạ độ khăn (UV) = điểm trải phẳng trên mặt phẳng bàn, đơn vị mét, đưa về 0..1 theo cỡ ghi trong số đo (khan_uv_cao).
-# Chạy: <venv có bpy>/bin/python ban_dai_3d.py <thư mục ra>
+# Chạy: GOC_3D=10 <venv có bpy>/bin/python ban_dai_3d.py <thư mục ra>   (GOC_3D: độ chếch máy ảnh, xem xuong_3d.py)
 import sys, os, math, json
 sys.path.insert(0, os.path.dirname(os.path.abspath(__file__)))
 import bpy

diff --git a/docs/game/ve/README.md b/docs/game/ve/README.md
@@ -45,12 +45,14 @@ Bốn ảnh mô hình trả về (`lenh/tt-j1.json`): `nen-ho.png`, `nen-langque
 | Bản đêm bằng mã (25/11) | `python3 dem_ma.py <nền trống 1600×889> <ho|langque>` → `dem-ma-<nơi>.jpg`, `nen-<nơi>-dem.webp`. Vườn Hồ: tách trời theo màu (trời lam trội, mây đỏ trội). Sân nhà quê: trời sáng không phải lá, nối với mép trên hoặc cao hơn mái nhà. Đèn lan can, đèn cổng, cửa sổ sáng, đèn làng xa. In ra hệ số chỉnh sáng món rời. |
 | Ghế 3D (thử 25/11) | `<venv>/bin/python ghe_3d.py <thư mục ra>`; cần `pip install bpy` trong venv riêng (không đưa venv vào repo). Ghế chiavari dựng bằng mã, vẽ bằng Cycles CPU + nét Freestyle, 8 góc, nền trong suốt, kèm ảnh mặt nạ đệm cho từng góc. Khoảng 1 phút cho 8 góc. |
 | Xưởng 3D dùng chung (25/11) | `xuong_3d.py`: ghế chiavari, khăn tròn có nếp (toạ độ UV = toạ độ trải phẳng), máy ảnh trực giao chếch 15° với 260 px mỗi mét cho mọi món, ba lượt vẽ: tranh (Cycles CPU + nét Freestyle), mặt nạ màu ID, toạ độ khăn 16 bit. |
-| Bàn tròn, bàn dài 3D (25/11) | `<venv>/bin/python ban_tron_3d.py <ra>` (6, 10, 12 khách) và `ban_dai_3d.py <ra>` (8, 12, 20 khách, ngang và chéo). Mỗi bộ: `.png`, `-id.png`, `-uv.png` và số đo kiểu `TT` (w, h, pxm, ax, ay) trong `ban-tron.json`, `ban-dai.json`. |
+| Bàn tròn, bàn dài 3D (25/11, dựng lại 26/11) | `GOC_3D=10 <venv>/bin/python ban_tron_3d.py <ra>` (6, 10, 12 khách) và `GOC_3D=10 … ban_dai_3d.py <ra>` (8, 12, 20 khách, ngang và chéo). Mỗi bộ: `.png`, `-id.png`, `-uv.png` và số đo kiểu `TT` (w, h, pxm, ax, ay) trong `ban-tron.json`, `ban-dai.json`. |
 | Cận cảnh bàn 3D (25/11) | `<venv>/bin/python can_canh_3d.py [au,viet] <ra>`: một chỗ ngồi ở giữa, hai chỗ bên bị khung cắt; kiểu Âu (đĩa lót viền hạt, đĩa, khăn ăn, thiệp, dao nĩa, 3 ly, đĩa bánh mì) và kiểu Việt (đĩa kê, chén, thìa, đũa, chén nước chấm, ly). Khoảng 2,5 phút mỗi kiểu. |
 | Ghép cảnh từ đồ tự vẽ (25/11) | `python3 canh_3d.py <thư mục bàn 3D> <nen-ho.webp> <nen-ho-dem.webp>` → `canh-3d.jpg`. Khăn nhiều lớp và đệm đổi màu đọc thẳng mặt nạ và ảnh toạ độ khăn của 3D (`bo_ban`, có thêm `nhuom_id` để đổi màu đĩa lót, dao nĩa). Cần `pypng` để đọc ảnh 16 bit. |
 | Đưa vào trang thử (26/11) | `python3 xuat_lab.py <bản chơi> <thư mục nền đêm> <bàn tròn 3D> <bàn dài 3D> <cận cảnh 3D> <t14-xuat.png> [nen,khung,ban,gan,vai]` → `anh/`, `anh/tt/` của bản chơi và `tt-lab.json` (số đo, chép vào `SO3` trong `index.html`). Khung cổng vẽ ở 2× thước cũ, 4 màu; cụm hoa Canva gắn sẵn theo từng khung, mặt nạ cánh mẫu đơn hồng riêng (mặt nạ cũ làm cho hoa trắng). Bàn và cận cảnh: mặt nạ 3 kênh và toạ độ khăn gói 12 bit (R, G = bit cao của u, v; B = 4 bit thấp mỗi số), lưu không nén mất dữ liệu, kèm một điểm mẫu để trang tự kiểm. Mặt nạ cận cảnh bóc phần ly trong suốt trước rồi chia khăn, đĩa lót, dao nĩa. Ô hoạ tiết vải (ren, kim sa, gấm) lặp liền mạch, 512 px và 128 px. Khoảng 4 phút cho cả bộ. |
+| Góc máy ảnh (26/11) | `GOC_3D` (độ, mặc định 15) đặt độ chếch máy ảnh trực giao cho mọi tệp dùng `xuong_3d.py`. Bàn ghế đặt vào cảnh (bàn tròn, bàn dài, ghế 16 hướng, bàn cô dâu chú rể) vẽ ở **10°**: tranh nhìn từ máy cao 3,26 m nên bàn ở 12–24 m chỉ chếch 8–15°, và bàn tròn vẽ tay đo được b/a ≈ 0,18 ≈ 10,4°. Vẽ ở 15° thì bàn trông sâu hơn thật, ghế phía sau bị đẩy lên chạm chân lan can. Trang thử đọc `goc_nhin` trong số đo để đặt hoa, nến lên mặt bàn. Bản 25/11 của `ban_tron_3d.py` xoay ghế ngược nửa vòng (ghế quay lưng vào bàn); đã sửa và có kiểm tra trong tệp. |
+| Bàn cô dâu chú rể (26/11) | `GOC_3D=10 <venv>/bin/python ban_doi_3d.py <ra>` → `ban-doi` (`.png`, `-id.png`, `-uv.png`), `ban-doi.json`: bàn 1,6 × 0,7 m phủ khăn, không ghế. `DOI_3D=<ra> python3 xuat_lab.py … doi` đưa vào trang thử. |
 | Loa 3D (26/11) | `<venv>/bin/python loa_3d.py <ra>` → `loa-keo`, `loa-chan`, `loa-sub` (`.png`, `-id.png`) và `loa.json`; cùng máy ảnh, cùng thước với bàn ghế. Đưa vào trang thử bằng `LOA_3D=<ra> python3 xuat_lab.py … loa`. Đèn và màn LED vẽ bằng mã ngay trong trang (`index.html`, các hàm `veDen`, `noiDungLED`), không có tệp tranh. |
-| Ghế 16 hướng (26/11) | `<venv>/bin/python ghe_xoay_3d.py <ra>` → `ghe-0..15.png`, `-id.png`, `ghe.json`: ghế chiavari của bộ bàn quay mỗi bước 22,5°. `GHE_3D=<ra> python3 xuat_lab.py … ghe` gộp thành một tấm ngang `ghe-xoay.webp` + mặt nạ `ghe-xoay-mn.webp` (lục: đệm, lam: khung) và ghi vị trí từng hướng vào `SO3.ghe`. Bản chơi xếp ghế dự lễ bằng hàm `xepLe` và chiếu theo phối cảnh của tranh (`PC_K`). |
+| Ghế 16 hướng (26/11) | `GOC_3D=10 <venv>/bin/python ghe_xoay_3d.py <ra>` → `ghe-0..15.png`, `-id.png`, `ghe.json`: ghế chiavari của bộ bàn quay mỗi bước 22,5°. `GHE_3D=<ra> python3 xuat_lab.py … ghe` gộp thành một tấm ngang `ghe-xoay.webp` + mặt nạ `ghe-xoay-mn.webp` (lục: đệm, lam: khung) và ghi vị trí từng hướng vào `SO3.ghe`. Bản chơi xếp ghế dự lễ bằng hàm `xepLe` và chiếu theo phối cảnh của tranh (`PC_K`). |
 | Bàn dài xuyên suốt (26/11) | `<venv>/bin/python ban_xuyen_3d.py [thu] <ra>` → `ban-xuyen-giua`, `ban-xuyen-doc` (`.png`, `-id.png`, `-uv.png`, đầy khung 1600 × 889) và `ban-xuyen.json`. Máy ảnh phối cảnh khớp tranh: cao 1/0,307 m, tiêu cự 1,1 bề ngang khung, chân trời ở 44% (dịch ống kính, không ngửa máy). `thu`: 8 mẫu, không nét, để soát vị trí trước. `XUYEN_3D=<ra> python3 xuat_lab.py … xuyen` cắt gọn theo vùng có hình, ghi vị trí cắt (`ox`, `oy`) và làm hình thẻ. `khan_dai` lấy từ `ban_dai_3d.py` (đã thêm `if __name__ == '__main__'` để nhập được). |
 | Luống hoa T15 (26/11) | Ảnh Canva 6 khóm hoa trắng (`t15-xuat.png`, nền xanh đậm). `T15=<ảnh> python3 xuat_lab.py … luong` tách nền (`trang_tri.tach(…, nguong=90)`), cắt 6 khóm, gộp thành `luong.webp` + mặt nạ cánh `luong-mn.webp`, ghi `SO3.luong` (bề rộng thật 0,65 m mỗi khóm). Bản chơi xếp khóm trong hàm `veGhe`, chung thứ tự xa gần với ghế dự lễ. |
 | Hoa bàn T3 (26/11) | Ảnh Canva 6 món trên nền xanh (`t3-xuat.png`). `T3=<ảnh> python3 xuat_lab.py … hoaban` tách nền (`trang_tri.tach(…, nguong=90, ra_hop=True)`), làm kính trong suốt, cắt 6 món theo thứ tự hàng rồi cột, gộp thành `hoaban.webp` + mặt nạ cánh `hoaban-mn.webp` (bỏ thân nến, đáy bình, mái đèn lồng), hình thẻ `t-hoaban-0..5.webp`, ghi `SO3.hoaban` (mỗi món: vị trí, cỡ, điểm đáy, bề rộng thật). Bản chơi đặt hoa trong `veGhe` ngay sau bàn của nó, bàn xuyên suốt trong `veDen`. |

diff --git a/docs/game/bo-cuc-canh.md b/docs/game/bo-cuc-canh.md
@@ -17,6 +17,8 @@ Chủ dự án góp ý ngày 26/11: đồ trang trí chèn vào khung hình **kh
 | 7 | Phần Tiệc mà cặp đôi vẫn đứng ở cổng như lúc làm lễ | chưa có bàn cô dâu chú rể |
 | 8 | Ghế dự lễ xếp dày thành khối, đè nặng nửa dưới khung | xếp đủ 100 ghế trong khung, màu khung ghế đậm |
 | 9 | Sân nhà quê: bàn chắn lối vào cổng làng | vùng đặt bàn chưa có vùng cấm (lối, cổng, nhà) |
+| 10 | Bàn tròn: ghế quay lưng vào bàn (chủ dự án phát hiện 26/11) | `ban_tron_3d.py` xoay ghế φ + π/2 thay vì φ − π/2; bàn dài đúng nên không lộ khi soát |
+| 11 | Ghế phía sau của bàn xa đè lên lan can (chủ dự án phát hiện 26/11) | bàn ghế 3D vẽ chếch 15°, trong khi tranh nhìn bàn ở 12–24 m chỉ chếch 8–15° (bàn tròn vẽ tay đo được b/a ≈ 0,18 ≈ 10,4°, `tham-khao-thiet-ke-tiec.md` mục 4): bàn trông sâu hơn thật, chân ghế sau lên đúng đường chân lan can; lối dọc lan can chỉ chừa 1,2 m; hai hàng bách nằm trong vùng đặt bàn nên bàn đứng lẫn vào gốc cây |
 
 ## 2. Luật bố cục
 
